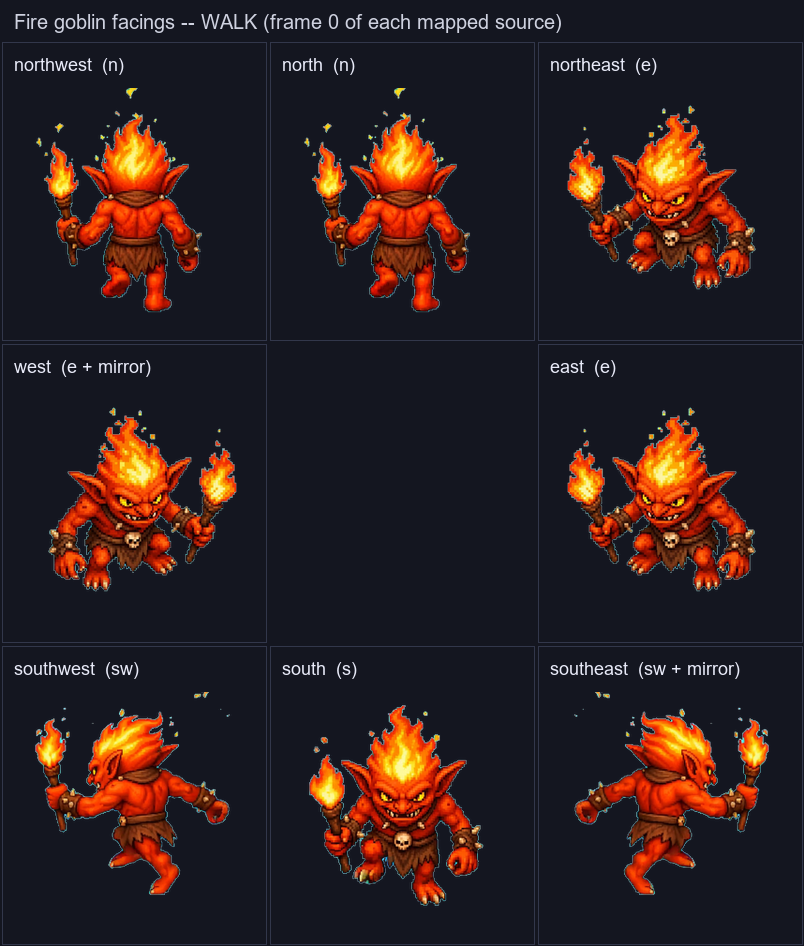
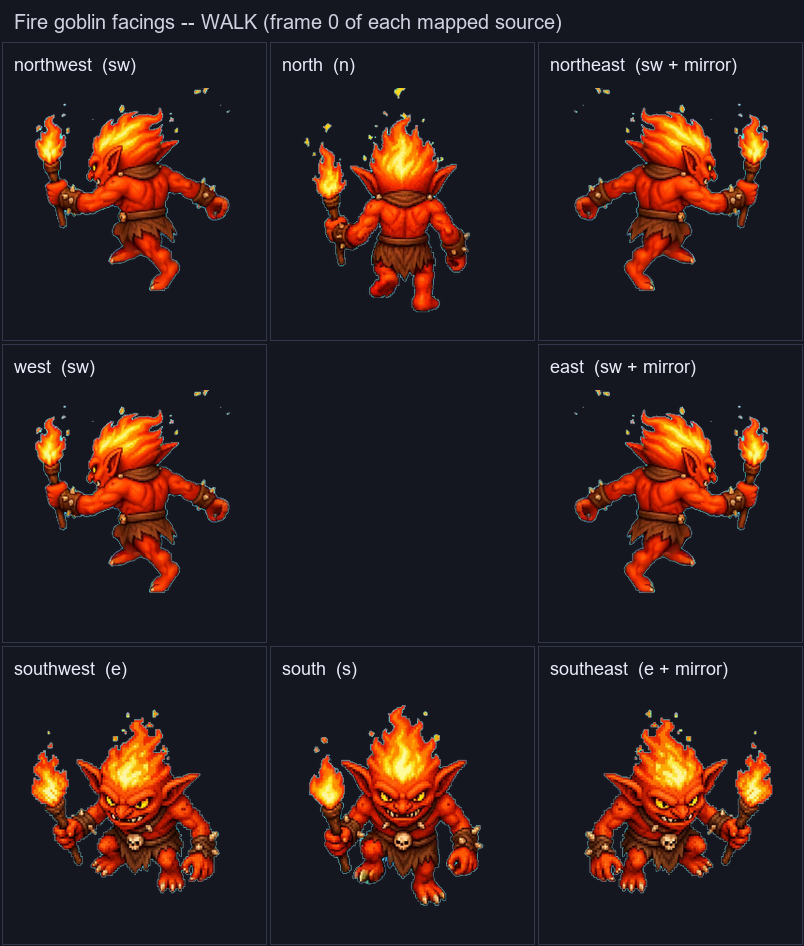
fireGoblin WALK_MAP: correct mislabeled source poses (v2.3.5)
User reviewed the v2.3.4 facing previews and identified the file
names didn't match the actual poses:
  walk-sw.png is actually a *west* side-profile (one eye, ear right)
  walk-e.png  is actually a *southwest* 3/4 view (both eyes visible)

Remapped:
  NW / W  -> 'sw' source (no mirror)   [side profile facing left]
  NE / E  -> 'sw' source (mirror)      [side profile facing right]
  SW      -> 'e'  source (no mirror)   [3/4 forward-left]
  SE      -> 'e'  source (mirror)      [3/4 forward-right]
  N / S   unchanged

tools/preview_fire_goblin_facings.py updated to mirror the new map;
re-run any time you swap sheets.

Build verified.

diff --git a/src/rendering/fireGoblinSprites.js b/src/rendering/fireGoblinSprites.js
@@ -43,23 +43,23 @@ const WALK_DIRS = ['s', 'sw', 'e', 'n'];
 const ATTACK_DIRS = ['s', 'sw', 'w', 'nw', 'n'];
 const HIT_DIRS = ['s', 'sw', 'nw', 'n'];
 
-/* WALK: only 4 source directions.  East-side facings (E, NE) use the
-   'e' sheet directly per user spec ("east doubles for NE").  Missing
-   west-side facings are produced by mirroring east-side sources:
-     west      -> mirror of 'e' (side-profile flipped)
-     southeast -> mirror of 'sw' (forward-3/4 flipped)
-     northwest -> 'n' (back-facing — closest available for up-left;
-                       no mirror because 'n' is symmetric and there's
-                       no proper NW source) */
+/* WALK: 4 source files but the names are misleading -- per user
+   v2.3.5 review, the actual poses are:
+     walk-sw.png -- pure side profile facing west (NOT southwest)
+     walk-e.png  -- 3/4 view facing southwest (NOT east)
+     walk-n.png  -- back
+     walk-s.png  -- front
+   So the proper map uses 'sw' for W/NW (side profile) and 'e' for
+   SW (3/4 view), with east-side facings produced by mirroring. */
 const WALK_MAP = {
   south:     { src: 's',  mirror: false },
-  southwest: { src: 'sw', mirror: false },
-  west:      { src: 'e',  mirror: true  },
-  northwest: { src: 'n',  mirror: false },
+  southwest: { src: 'e',  mirror: false },
+  west:      { src: 'sw', mirror: false },
+  northwest: { src: 'sw', mirror: false },
   north:     { src: 'n',  mirror: false },
-  northeast: { src: 'e',  mirror: false },
-  east:      { src: 'e',  mirror: false },
-  southeast: { src: 'sw', mirror: true  },
+  northeast: { src: 'sw', mirror: true  },
+  east:      { src: 'sw', mirror: true  },
+  southeast: { src: 'e',  mirror: true  },
 };
 
 /* ATTACK: 5 source directions (N / NW / W / SW / S).  East-side

diff --git a/tools/preview_fire_goblin_facings.py b/tools/preview_fire_goblin_facings.py
@@ -18,13 +18,13 @@ FRAME_W = 256
 # Mirror of the WALK_MAP / HIT_MAP / ATTACK_MAP in fireGoblinSprites.js
 WALK_MAP = {
     'south':     ('s',  False),
-    'southwest': ('sw', False),
-    'west':      ('e',  True),
-    'northwest': ('n',  False),
+    'southwest': ('e',  False),
+    'west':      ('sw', False),
+    'northwest': ('sw', False),
     'north':     ('n',  False),
-    'northeast': ('e',  False),
-    'east':      ('e',  False),
-    'southeast': ('sw', True),
+    'northeast': ('sw', True),
+    'east':      ('sw', True),
+    'southeast': ('e',  True),
 }
 HIT_MAP = {
     'south':     ('s',  False),